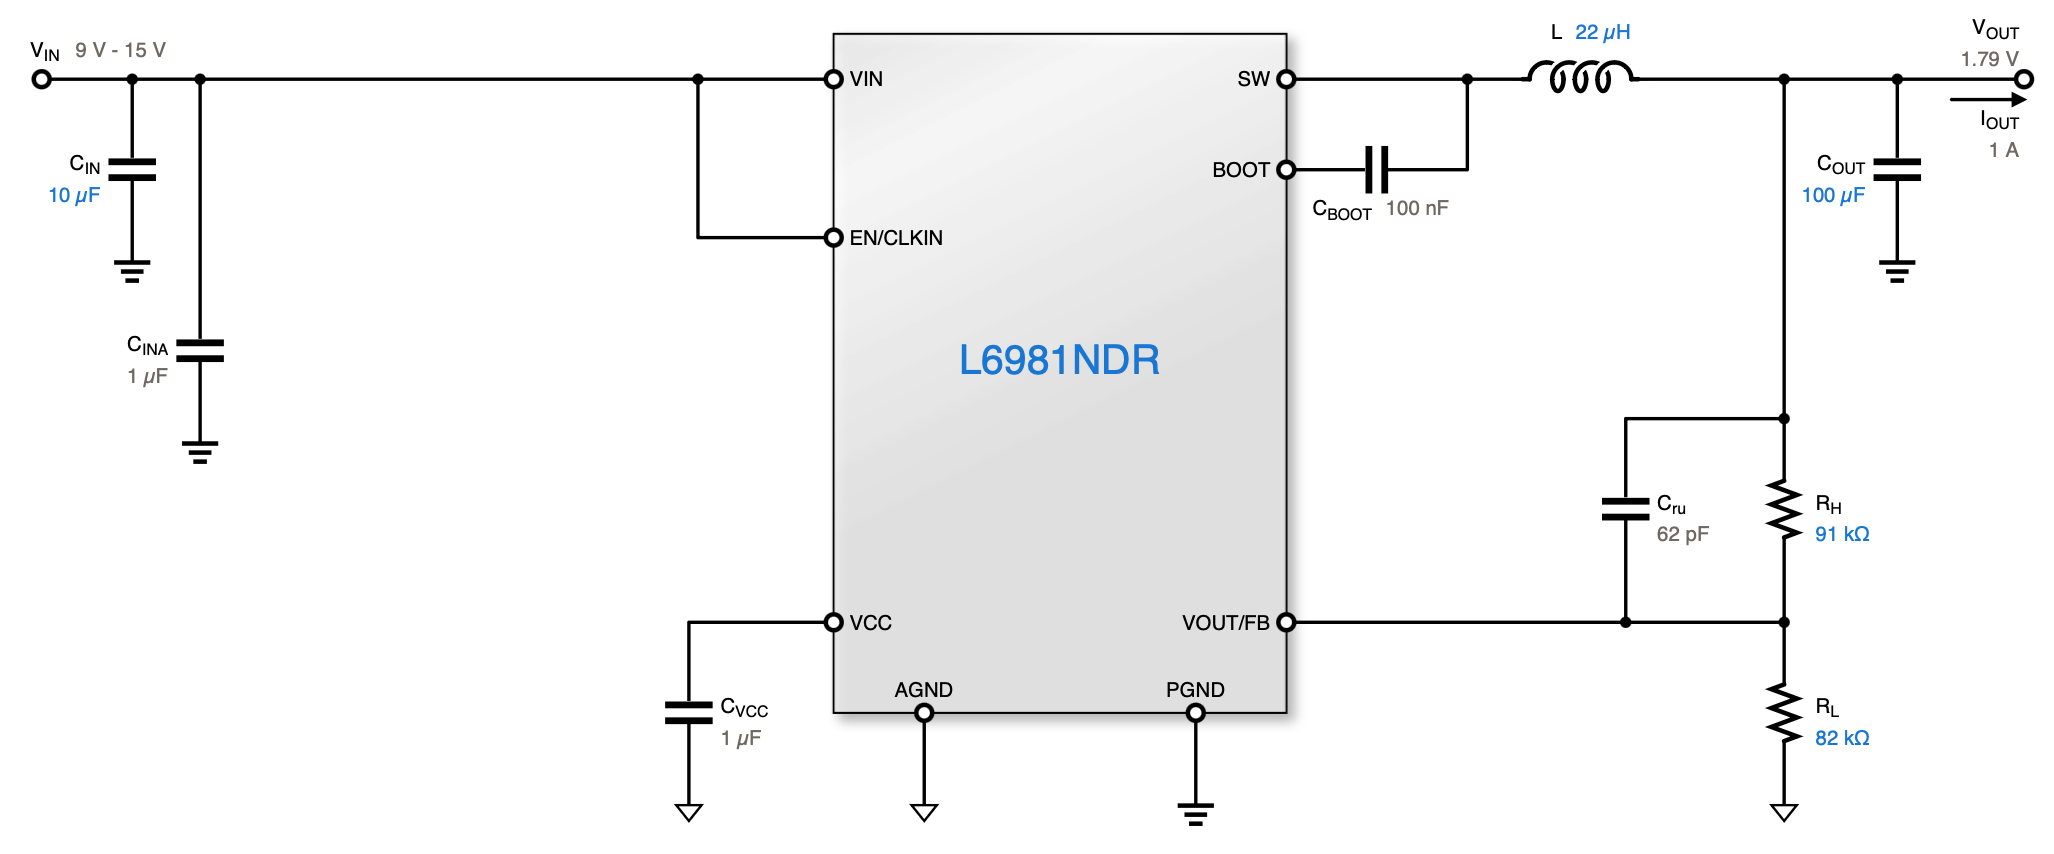
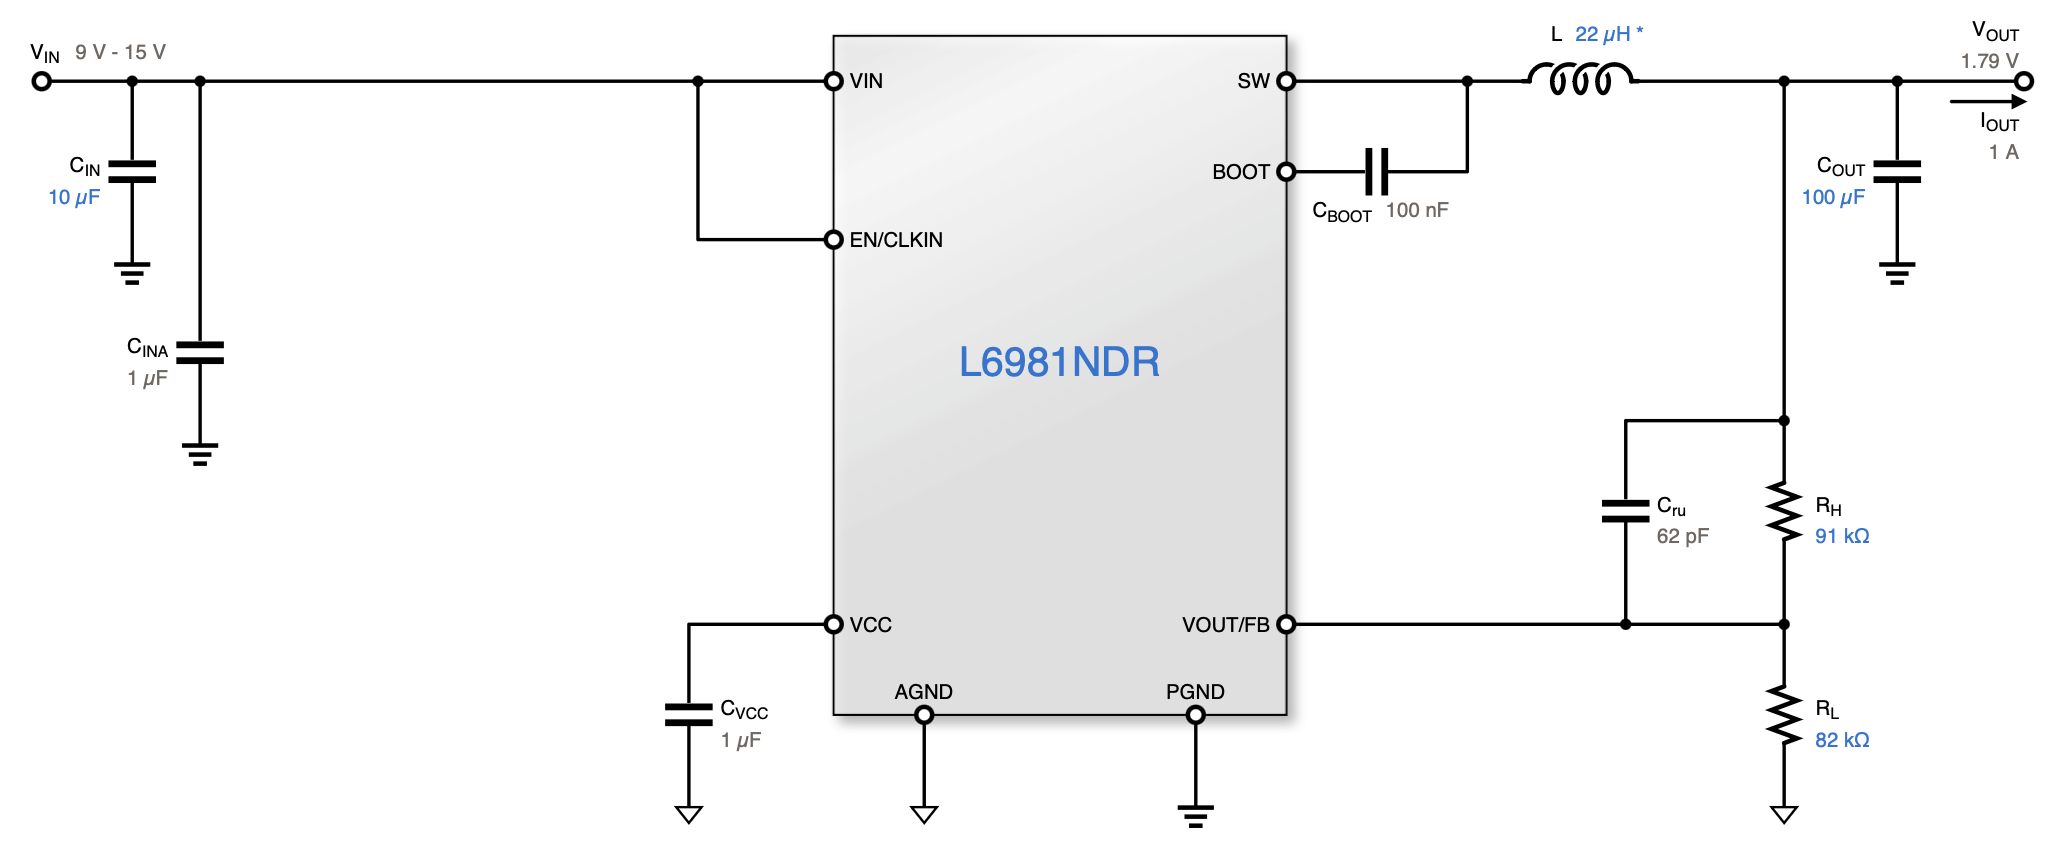
Update power supply components

diff --git a/docs/src/arch/5_design.rst b/docs/src/arch/5_design.rst
@@ -226,7 +226,7 @@ The following diagram outlines the Point-Of-Load architecture of the board :
      - Vout
      - Current capacity
   
-   * - ST1S41PUR
+   * - ST1S41PHR
      - 4-18V
      - 0.8-18V
      - 4A
@@ -289,7 +289,7 @@ Component Selection
    * - Inductor
      - L
      - 2.2uH
-     - 6.8 A - Würth Elektronik - 7440660022
+     - 10.1 A - Panasonic - ETQP3M2R2KVP
 
    * - Resistor
      - Rh
@@ -319,19 +319,19 @@ Component Selection
      - 1.1V
      - ±1% 
    * - Ripple
-     - 10mv - 0.94%
+     - 11mv - 0.96%
      - <2%
    * - IL ripple
-     - 680mA - 17.01% of 4A
+     - 702mA - 17.54% of 4A
      - <1.2A
    * - Fws
      - 850kHz
      - 
    * - Ton
-     - 111.57ns
+     - 115.47ns
      - >= 90ns
    * - Vin ripple
-     - 0.97%
+     - 1.01%
      - 
    * - Bandwidth
      - 118.98kHz
@@ -340,10 +340,10 @@ Component Selection
      - 60.96°
      - >= 45°
    * - IC Tj
-     - 113.6°C
+     - 113.7°C
      - < 125°C
    * - ΔTj
-     - 88.6°C
+     - 88.7°C
      - 
 
 .. image:: ../assets/buck-1V1-eff.png
@@ -437,13 +437,13 @@ Component Selection
 
    * - Capacitor
      - Cout
-     - 68uF
-     - 6.3 V - 20% - TDK - C3225X5R0J686M
+     - 100uF
+     - 6.3 V - 20% - muRata - GRM32ER60J107ME20L
 
    * - Inductor
      - L
-     - 24uH
-     - 3.25 A - Würth Elektronik - 7447798241
+     - 22uH
+     - 8.8 A - Panasonic - ETQP5M220YFC
 
    * - Resistor
      - Rh
@@ -491,22 +491,22 @@ Component Selection
      - 2mv - 0.07%
      - <2%
    * - IL ripple
-     - 225mA - 22.49% of 1A
+     - 246mA - 24.61% of 1A
      - <300mA
    * - Fws
      - 400kHz
      - 
    * - Ton
-     - 438.46ns
+     - 440.13ns
      - >= 85ns
    * - Vin ripple
      - 0.69%
      - 
    * - Bandwidth
-     - 40.96kHz
+     - 34.6kHz
      - 
    * - Phase Margin
-     - 54.48°
+     - 63.47°
      - >= 45°
    * - IC Tj
      - 40.6°C
@@ -566,7 +566,7 @@ Component Selection
    * - Inductor
      - L
      - 27uH
-     - 8.9 A - Coilcraft - SER2211-273MED
+     - 3.8 A - Würth Elektronik - 744770127
 
    * - Resistor
      - Rh
@@ -614,22 +614,22 @@ Component Selection
      - 5mv - 0.15%
      - <2%
    * - IL ripple
-     - 243mA - 24.3% of 1A
+     - 244mA - 24.45% of 1A
      - <300mA
    * - Fws
      - 400kHz
      - 
    * - Ton
-     - 569.08ns
+     - 573.80ns
      - >= 85ns
    * - Vin ripple
-     - 0.82%
+     - 0.83%
      - 
    * - Bandwidth
-     - 47.24kHz
+     - 47.31kHz
      - 
    * - Phase Margin
-     - 54.8°
+     - 54.84°
      - >= 45°
    * - IC Tj
      - 40.9°C
@@ -689,7 +689,7 @@ Component Selection
    * - Inductor
      - L
      - 22uH
-     - 9.5 A - Würth Elektronik - 74436412200
+     - 8.8 A - Panasonic - ETQP5M220YFC
 
    * - Resistor
      - Rh
@@ -737,22 +737,22 @@ Component Selection
      - 2mv - 0.09%
      - <2%
    * - IL ripple
-     - 187mA - 18.67% of 1A
+     - 190mA - 19.04% of 1A
      - <300mA
    * - Fws
      - 400kHz
      - 
    * - Ton
-     - 314.74ns
+     - 322.05ns
      - >= 85ns
    * - Vin ripple
-     - 0.54%
+     - 0.55%
      - 
    * - Bandwidth
-     - 36.17kHz
+     - 36.23kHz
      - 
    * - Phase Margin
-     - 53.58°
+     - 53.66°
      - >= 45°
    * - IC Tj
      - 40.4°C
